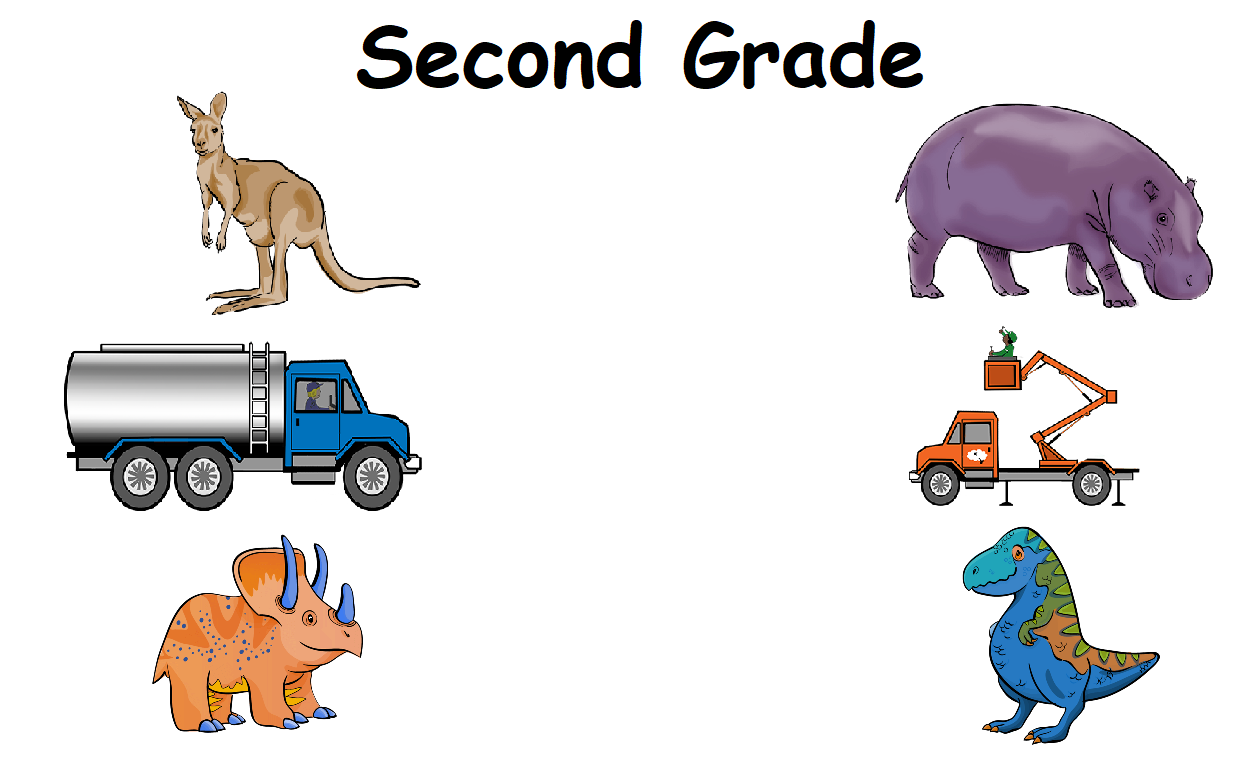
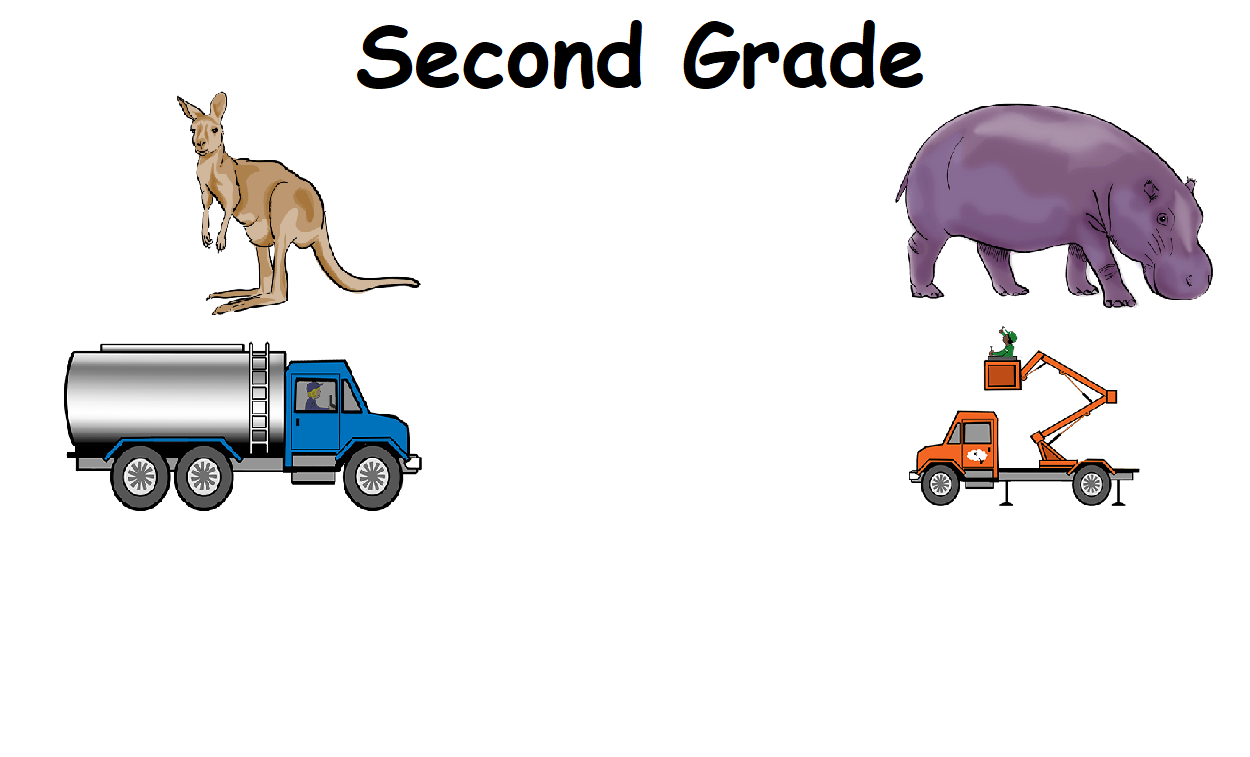
readded graph buttons to 2nd grade consonants screen

Changed region(s): [[0.1248, 0.6988, 0.312, 0.9723], [0.7488, 0.6988, 0.936, 1.0]]

diff --git a/src/app/pages/second-categories/second-consonants-details/second-consonants-details.component.html b/src/app/pages/second-categories/second-consonants-details/second-consonants-details.component.html
@@ -14,6 +14,8 @@
                 <button mat-icon-button class='category_button' id='blend-three' (mouseenter)='playAudio($event)' [routerLink]='["/list-select"]' [queryParams]="{'grade' : '2nd', 'list': 'CB-3'}"></button>
                 <button mat-icon-button class='category_button' id='silent' (mouseenter)='playAudio($event)' [routerLink]='["/list-select"]' [queryParams]="{'grade' : '2nd', 'list': 'V-long'}"></button>
             </div>
+            <button mat-icon-button class='category_button' id='digraph-begin' (mouseenter)='playAudio($event)' [routerLink]='["/list-select"]' [queryParams]="{'grade' : '2nd', 'list': 'CD-begin'}"></button>
+            <button mat-icon-button class='category_button' id='digraph-end' (mouseenter)='playAudio($event)' [routerLink]='["/list-select"]' [queryParams]="{'grade' : '2nd', 'list': 'CD-end'}"></button>
         </div>
     </div>
 

diff --git a/src/app/pages/second-categories/second-categories.component.html b/src/app/pages/second-categories/second-categories.component.html
@@ -3,7 +3,6 @@
         <div class='column'>
             <button mat-icon-button class='category_button' id='consonants' (mouseenter)='playAudio($event)' routerLink='/second-consonants-details'></button>
             <button mat-icon-button class='category_button' id='vowels' (mouseenter)='playAudio($event)' routerLink='/second-vowels-details'></button>
-            <button mat-icon-button class='category_button' id='vowelconsonants' (mouseenter)='playAudio($event)' [routerLink]="['/list-select']" [queryParams]="{'grade' : '2nd', 'list': 'VC'}"></button>
         </div>
     </div>
 

diff --git a/src/app/pages/second-categories/second-categories.component.css b/src/app/pages/second-categories/second-categories.component.css
@@ -26,12 +26,6 @@
     background-position: center;
     cursor: pointer;
 }
-#vowelconsonants {
-    background: url('../../../assets/img/buttons/second_vowelconsonants.png') no-repeat scroll transparent;
-    background-size: 50vh;
-    background-position: center;
-    cursor: pointer;
-}
   
 .category_button {
     width: 50vh;
